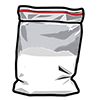
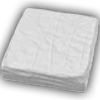
alpha

diff --git a/ui/src/App.css b/ui/src/App.css
@@ -118,14 +118,16 @@ body {
 .key {
   display: flex;
   align-items: center;
-
   gap: 0.2vw;
   padding: 0vw 0.4vw;
 }
 
 .key div {
+  min-width: 1vw;
+  display: flex;
+  justify-content: center;
   font-size: 0.7vw;
-  font-weight: bold;
+  font-weight: 800;
   padding: 0.2vw;
   background-color: rgba(206, 206, 206, 1);
   border-bottom: 0.5vh solid rgba(83, 83, 83, 0.781);

diff --git a/ui/src/components/instructions.jsx b/ui/src/components/instructions.jsx
@@ -12,7 +12,7 @@ const Instructions = () =>  {
         <div className="instructions">
 
             <div className="key">
-                <div>ENTER</div>
+                <div>E</div>
                 <span>Place</span>
             </div>
             <div className="key">
